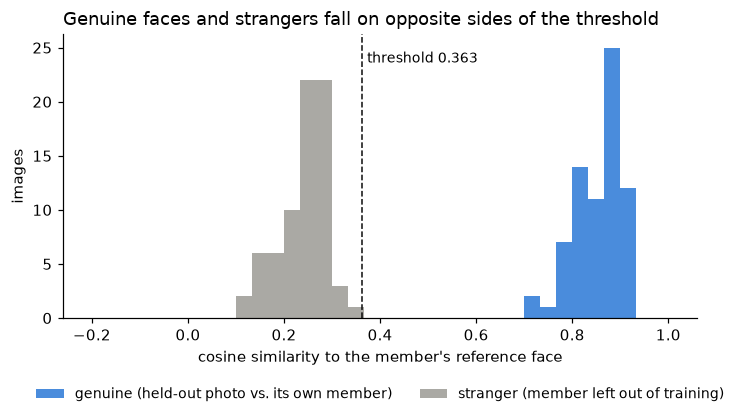
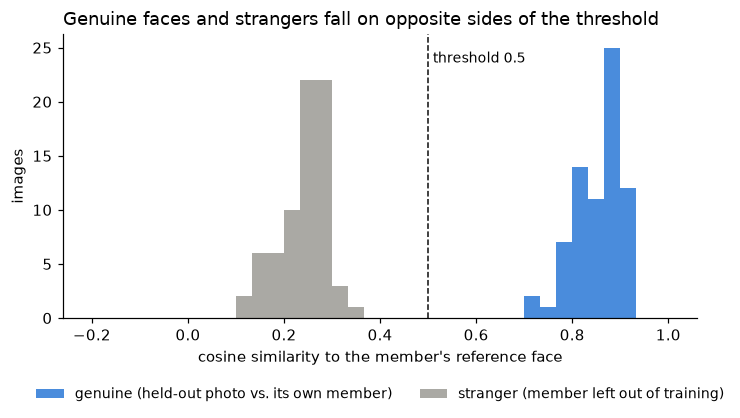
Make the face check stricter
- Raise the face similarity cutoff from 0.363 to 0.5
- Retrain the face model and rebuild both notebooks
- Add a test that the cutoff separates members from strangers

Changed region(s): [[0.4973, 0.1244, 0.7149, 0.1555]]

diff --git a/scripts/face_model.py b/scripts/face_model.py
@@ -23,9 +23,10 @@ Design decisions (explained in the notebook and report):
     `source_image`). Testing on a rotated copy of a training photo would overstate accuracy.
   * "unknown": a classifier always names one of the members, even for a stranger.
     So a face is only accepted when it is also close to that member's reference face
-    (the average of their original photos): cosine similarity of at least 0.363, the
-    threshold SFace's authors publish for "same person". One comparison per member keeps
-    that threshold as calibrated. A leave-one-member-out test checks that strangers are rejected.
+    (the average of their original photos): cosine similarity of at least 0.5. SFace's
+    authors publish 0.363 for "same person", but this check guards payments, so it is
+    stricter: on our photos members score 0.73 or more and strangers stay below 0.35.
+    A leave-one-member-out test checks that strangers are rejected.
   * An image must contain exactly one face, so a member's photo held up next to a
     stranger's face can't be used to log in.
 """
@@ -45,7 +46,7 @@ from image_pipeline import (EMBEDDING_COLUMNS, FEATURES_FILE, RAW, ROOT, FaceEnc
 
 MODEL_FILE = ROOT / "models" / "face_model.joblib"
 UNKNOWN = "unknown"
-SIMILARITY_THRESHOLD = 0.363  # SFace's published cosine threshold for "same person"
+SIMILARITY_THRESHOLD = 0.5  # stricter than SFace's published 0.363, since this guards payments
 RANDOM_STATE = 42
 
 

diff --git a/tests/test_face_pipeline.py b/tests/test_face_pipeline.py
@@ -213,3 +213,13 @@ def test_predict_face_denies_bad_files(tmp_path):
     (tmp_path / "notes.jpg").write_text("not a photo")
     assert fm.predict_face(tmp_path / "missing.jpg") == fm.UNKNOWN
     assert fm.predict_face(tmp_path / "notes.jpg") == fm.UNKNOWN
+
+
+def test_threshold_separates_members_from_strangers():
+    """On held-out photos every member is accepted, and every member left out of training is rejected."""
+    features = pd.read_csv(ip.FEATURES_FILE)
+    out, probabilities, classes = fm.evaluate(features)
+    assert fm.metrics(out, probabilities, classes)["accepted_correctly"] == 1.0
+    strangers = fm.impostor_test(features)
+    assert (strangers["rejected"] == strangers["images"]).all()
+    assert strangers["highest_similarity"].max() < fm.SIMILARITY_THRESHOLD <= out["genuine_similarity"].min()

diff --git a/README.md b/README.md
@@ -96,7 +96,7 @@ python -m pytest tests               # edge cases: names, duplicates, location d
 - Each photo gets 5 augmentations (rotated, flipped, grayscale, brightened, blurred), saved in `images/augmented/`.
 - Features are 128-number face embeddings from OpenCV's pretrained SFace model, after the YuNet detector finds and aligns the face (`models/pretrained/`).
 - The face model is a Logistic Regression, evaluated so that each photo and its augmented copies are always held out together.
-- `predict_face(image_path)` in `scripts/face_model.py` returns the member's name, or `"unknown"` when the face is not close enough to any member (cosine similarity below 0.363), when there is no face or more than one, or when the file can't be read.
+- `predict_face(image_path)` in `scripts/face_model.py` returns the member's name, or `"unknown"` when the face is not close enough to any member (cosine similarity below 0.5), when there is no face or more than one, or when the file can't be read.
 - `images/raw/unauthorized_face.jpg` (a public-domain NASA portrait, from scikit-image) is the stranger for the demo.
 
 ## Task 3 and the voice model: Audio (Agnes Mbabazi)
